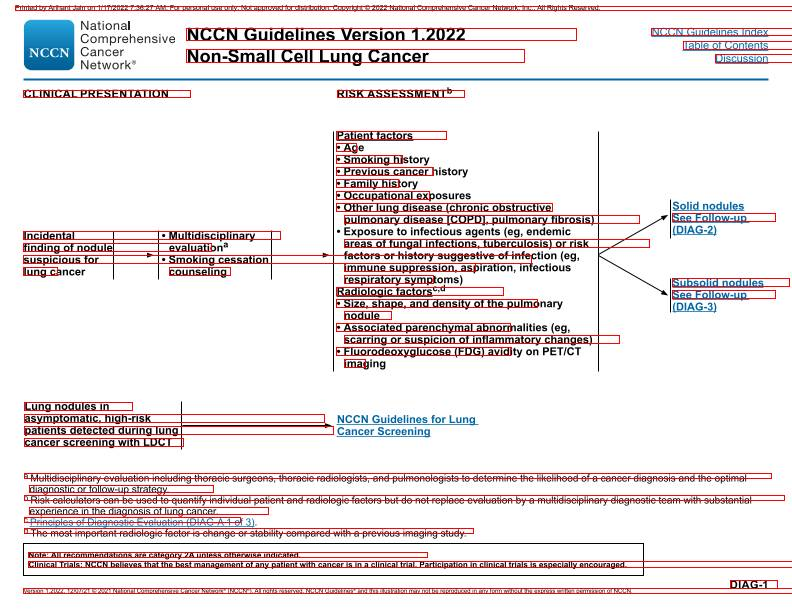
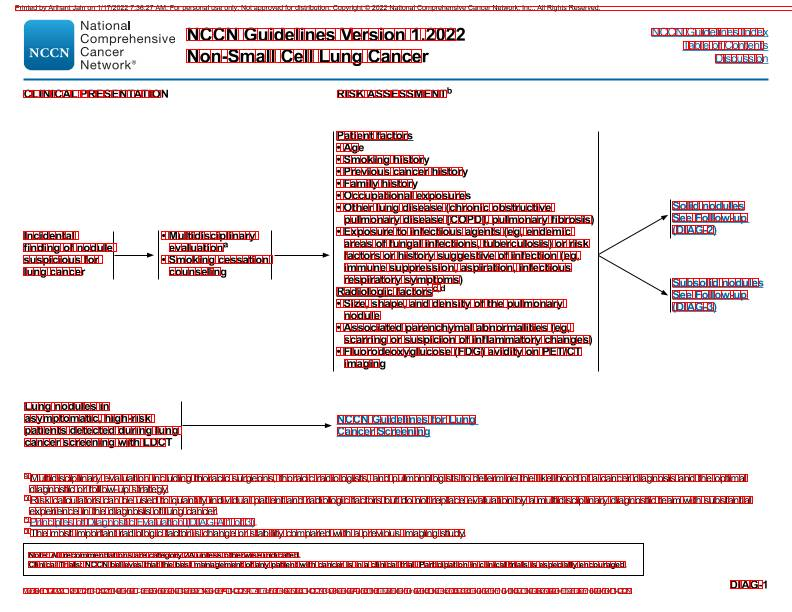
Added Guideline parser which has newPDFtextStripper and Extracttext to interface with pdfbox

diff --git a/GuidelineParser/src/parser/NewPDFTextStripper.java b/GuidelineParser/src/parser/NewPDFTextStripper.java
@@ -20,8 +20,6 @@ import java.awt.Graphics2D;
 import java.awt.geom.Rectangle2D;
 import java.awt.image.BufferedImage;
 import java.io.BufferedInputStream;
-import org.apache.pdfbox.rendering.ImageType;
-import org.apache.pdfbox.rendering.PDFRenderer;
 
 public class NewPDFTextStripper extends PDFTextStripper{
 	
@@ -33,7 +31,38 @@ public class NewPDFTextStripper extends PDFTextStripper{
 	}
 	
 
-	
+	public void postiontobound(String text, List<TextPosition> positions) {
+
+        
+        
+        int numberofchar = positions.size();
+        float x=0;
+        float fontsize=0;
+        float threshold=(float) 5;
+        int j=0;
+        
+        for (int i = 0; i < numberofchar; i++)
+        {
+        	if (i==0) {
+                x=positions.get(0).getX();
+                j=0;
+                fontsize=positions.get(0).getFontSize();
+                threshold=(float) (fontsize*1.2);
+        	}
+        	else if (positions.get(i).getX()-x >fontsize+threshold) {
+        		System.out.println(text.substring(j, i));
+        		System.out.println(positions.subList(j, i));
+        		
+            	wordbounds.add(new Wordwithbounds(text.substring(j, i), positions.subList(j, i)));
+            	j=i;
+            }
+        	else if (i==numberofchar-1) {
+        		wordbounds.add(new Wordwithbounds(text.substring(j, i), positions.subList(j, i)));
+        	}
+            x=positions.get(i).getX();
+        }
+        
+	}
 	
 	public static class Wordwithbounds
     {
@@ -43,23 +72,23 @@ public class NewPDFTextStripper extends PDFTextStripper{
         float sum;
         
         
-        Wordwithbounds(WordWithTextPositions word)
+        Wordwithbounds(String text, List<TextPosition> positions)
         {
         	double x;
             double y;
             double w;
             double h;
-            text = word.getText();
-            textPositions = word.getTextPositions();
+            this.text = text;
+            this.textPositions = positions;
             int numberofchar = textPositions.size();
             x=textPositions.get(0).getX();
             y=textPositions.get(0).getY();
-            w=numberofchar*textPositions.get(0).getIndividualWidths()[0];;
+            w=numberofchar*textPositions.get(0).getWidth();
             h=textPositions.get(0).getHeight();
             bound.setRect(x, y-h, w, h);
-            System.out.println(text);
-            System.out.println(w);
-            System.out.println("\n");
+//            System.out.println(text);
+//            System.out.println(w);
+//            System.out.println("\n");
         }
 
         public String getText()
@@ -84,7 +113,8 @@ public class NewPDFTextStripper extends PDFTextStripper{
         for (int i = 0; i < numberOfStrings; i++)
         {
             WordWithTextPositions word = line.get(i);
-            wordbounds.add(new Wordwithbounds(word));
+            //wordbounds.add(new Wordwithbounds(word.getText(),word.getTextPositions()));
+            postiontobound(word.getText(),word.getTextPositions());
         }
 //        System.out.println(wordbounds.get(0).getTextPositions().get(0).getIndividualWidths()[0]);
 //        System.out.println("\n");
@@ -114,8 +144,8 @@ public class NewPDFTextStripper extends PDFTextStripper{
             g2d.setColor(Color.RED);
 
             g2d.draw (wordbounds.get(i).bound);
-            System.out.println(wordbounds.get(i).text);
-            System.out.println("\n");
+//            System.out.println(wordbounds.get(i).text);
+//            System.out.println("\n");
         }
         
         String fileName = outputPrefix + (page) + "." + imageFormat;
